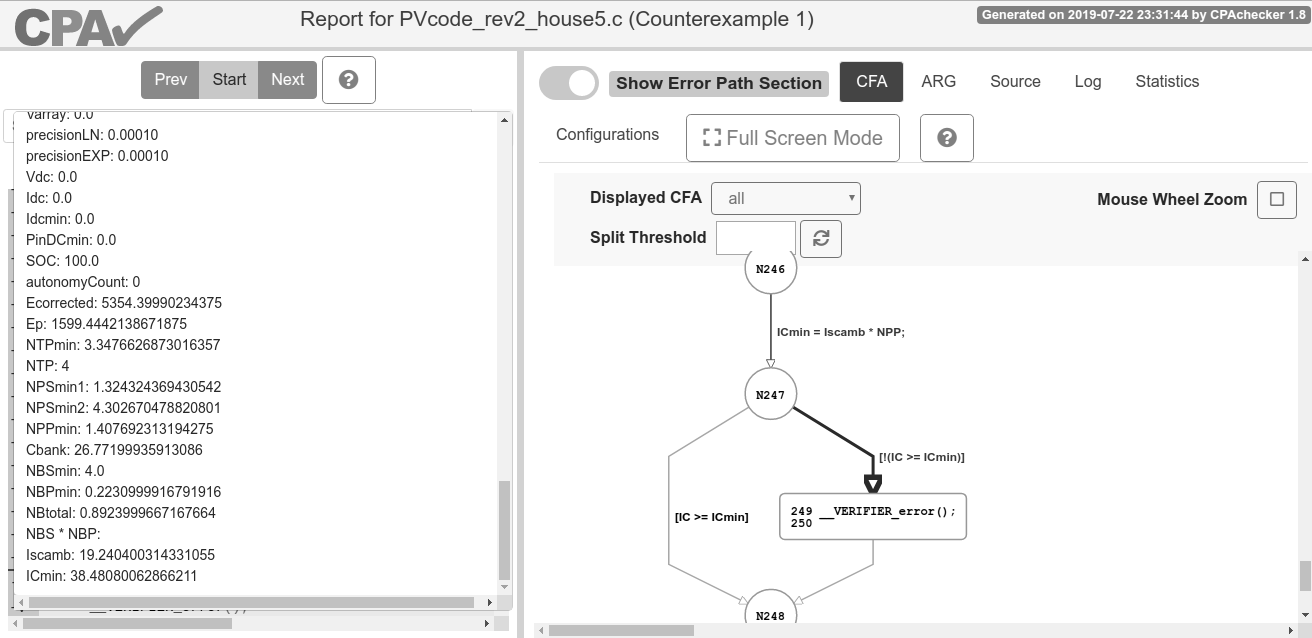
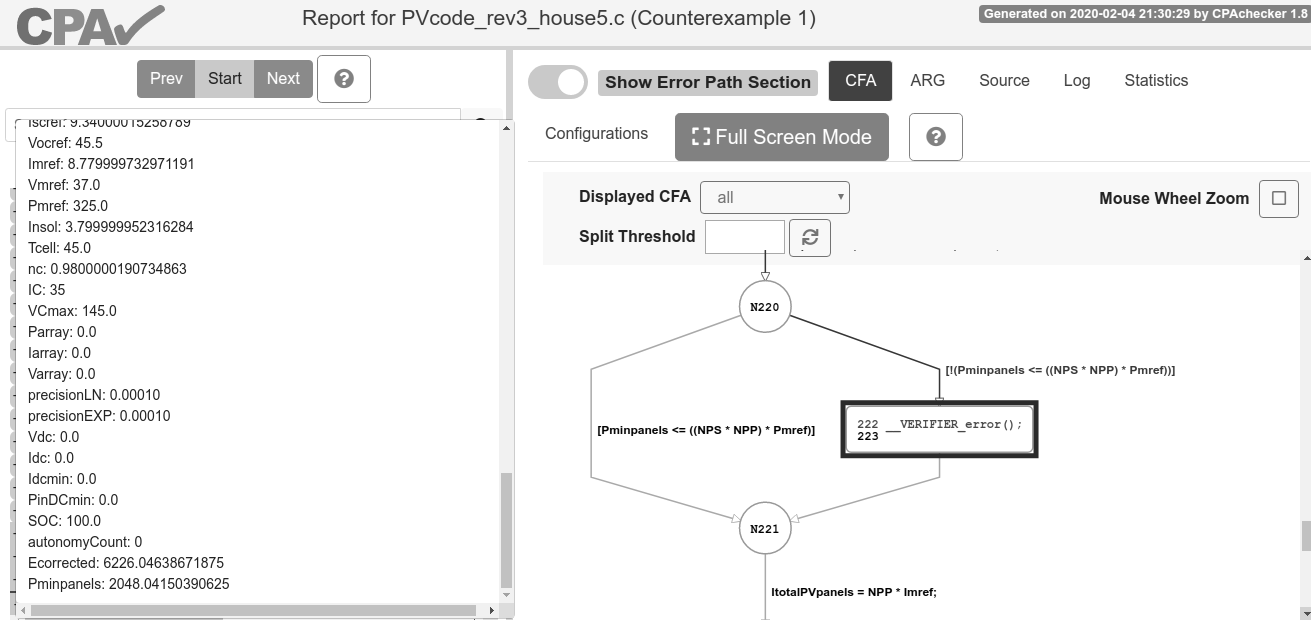
thesis update

diff --git a/Tex/Old text/chapters/chapterverification.tex b/Tex/Old text/chapters/chapterverification.tex
@@ -231,7 +231,7 @@ Inverter & \multicolumn{4}{c}{700 W, surge: 1,600 W} & 1,200 W, surge: 1,600 W\\
 \hline
 Load power peak (W)& 342  & 253  & 263 & 322 & 814 \\
 \hline
-Load Power surge (W)& 342 & 722 & 732 & 896 & 980\\
+Load power surge (W)& 342 & 722 & 732 & 896 & 980\\
 \hline
 Load curve (W) & \multicolumn{5}{l}{\makecell{House 1: 118-118-118-46-46-46-95-95-170-170-296-242-242-95-95-95-95-95-342-288-288-288-288-118\\House 2: 136-136-136-136-136-136-67-67-184-184-184-184-184-67-67-67-67-67-253-253-253-253-253-136\\House 3: 113-113-113-113-113-113-67-67-217-97-97-97-97-97-97-97-97-97-263-113-113-113-113-113\\House 4: 207-207-207-135-135-135-66-66-161-161-233-253-248-66-66-66-66-66-302-317-322-302-302-207\\House 5: 45-16-16-16-16-16-0-0-0-72-72-222-150-150-0-0-72-72-814-814-814-742-742-16}}\\
 \hline
@@ -285,7 +285,7 @@ This Section presents the results, with commented outputs produced by every tool
 %\item[RQ2] \textbf{(performance)} How does our approach compare against other existing tools?
 %
 Table~\ref{cases} summarizes the results. The times reported in Table~\ref{cases} answer EQ2. 
-Note that an UNKNOWN result from the proposed verification engines does not mean that a failure was found nor that the verification was successful: it indicates that the verification engine led to an \textit{out of memory} or a \textit{time out} situation.
+Note that an UNKNOWN result from the proposed verification engines does not mean that a failure was found nor that the verification was successful: it indicates that the verification engine led to an \textit{out of memory} situation and the design-state explosion was a issue during the run-time. It worth to mention that none of the verifiers and solvers reached the \textit{time out} limit during the experimental evaluation.
 
 %HOMER Pro result: the $1,200$W was the only one that was proved to not meet the requirement of battery autonomy; all the 700W systems had no indication of flaws during simulation. The simulation took less than five seconds to be performed on each case study.
 %
@@ -313,6 +313,7 @@ House 5 &  \makecell{Out of memory \\(UNKNOWN)\\$\geq$ 64 GB} & \makecell{$\leq$
 \hline
 \hline
 \end{tabular}
+\\Caption: (SAT): wrong sizing of PV panels (minimum total installed power not satisfied).
 \end{scriptsize}
 \end{table}
 
@@ -323,90 +324,56 @@ The description of the experimental results have been broken down into three par
 
 Two alternatives were tested with ESBMC: one with Boolector and the another with Z3. The 'incremental SMT' option, which uses less memory, can be performed with Z3 only since ESBMC does not support the 'incremental' mode with the Boolector solver yet. 
 
-Using ESBMC with Boolector led to an out of memory situation in all the case studies. This result was obtained in less than six minutes of execution, i.e. the $64$ GB of RAM were consumed by the verification engine and the processes were killed, thus leading to an UNKNOWN result returned by ESBMC as shown in the first column of Table~\ref{cases}. 
+Using ESBMC with Boolector led to an 'out of memory' situation in all the case studies. This result was obtained in less than six minutes of execution, i.e. the $64$ GB of RAM were consumed by the verification engine and the processes were killed, thus leading to an UNKNOWN result returned by ESBMC as shown in the first column of Table~\ref{cases}. 
 
-However, running the same version of ESBMC, using 'incremental SMT' solving with Z3, the experimentation results returned were conclusive (SAT or UNSAT) in all the case studies. 
+However, running the same version of ESBMC, using 'incremental SMT' solving with Z3, the experimentation results returned were conclusive (SAT) in all the case studies. Moreover, the flaw identified was the same for all cases: the sized total PV panels power was not enough to meet the design requirements of the system (energy and power load demand). Put it simple, the designed PV systems will fail when deployed at the field. Based on the fact that the tool stops when the first flaw is identified, the rest of the validation procedure was not even reached. Worth to mention that if we remove the PV panels validation from the tool, the next flaw identified during experimentation was the battery array sizing (not enough to meet the design requirements as well).
 
-In the houses that use a $975$ W PV system (house $1$, house $2$, house $3$, and house $4$), ESBMC could not reach an error in any of the four houses and the execution time took from $04$ m $27$ s to $05$ m $08$ s. Fig.~\ref{fig:esbmcverifhouse1} shows the output report of the tool for house $1$, with the absence of fail at the end of the analysis. The file produced by ESBMC is $160$ lines long and $12.4$ kB in size. The author highlighted the result, which shows that no design flaws were found (SAT result or SUCCESS) within the bound $k$ of $100$.
+In the houses that use a $975$ W PV system (house $1$, house $2$, house $3$, and house $4$), ESBMC reached an error in any of the four houses and the execution time took less than $01$ s. Fig.~\ref{fig:esbmcverifhouse1} shows the output report of the tool for house $1$, with the FAIL identified. The author highlighted the result, which shows that the design flaw was found (SAT result or SUCCESS) within the bound $k$ of $100$, when a expected PV panels total power of $1,636.76$ W is expected and the sized system has only $975$ W. This flaw is related to Eq.~\eqref{eq:Pminpanel}.
 
 \begin{figure}[h]
-\includegraphics[width=0.65\textwidth]{esbmcverifh1.png}
+\fbox{\includegraphics[width=1.0\textwidth]{esbmcverifh1.png}}
 \centering
-\caption{Report generated by ESBMC (with Z3 solver) after validation of House 1.}
+\caption{Report generated by ESBMC (Z3 solver) after validation of House 1.}
 \label{fig:esbmcverifhouse1}
 \end{figure}
 
-However the $1,200$ W PV system (house $5$) failed (SAT) in line $337$ of the code, thereby indicating that the system is \textit{incorrectly} sized; in particular, the counterexample provided by the verification engine indicated that the nominal current from the charge controller is less than the minimum current required by the PV system, indicating that the equipment chosen is not suited to meet the design requirements.
-
-Fig.~\ref{fig:esbmcverifhouse5} shows the report generated by the tool, with red highlights for the result, showing the incompatibility of the sized charge controller and the minimum necessary. The report generated by ESBMC was a text file of $14.1$ kB in size, $353$ lines in length. This verification took less than $1$ s to perform, as indicated in the last line of Table~\ref{cases}, faster than the previous analysis because ESBMC stops during the sizing check, line $3$ of Algorithm~\ref{alg:verification-algorithm}, and does not perform the rest of the verification code.
+Related to the $1,300$ W PV system (house $5$), the same fail occurred (SAT), thereby indicating that the system is \textit{incorrectly} sized. Fig.~\ref{fig:esbmcverifhouse5} shows the report generated by the tool, with highlights for the result, showing the incompatibility of the sized PV panels array of $1,300$ W and the minimum necessary of $2,048.05$W. This verification took less than $1$ s to perform, as indicated in the last line of Table~\ref{cases}.
 
 \begin{figure}[h]
-\includegraphics[width=0.5\textwidth]{esbmcverifh5.png}
+\fbox{\includegraphics[width=1.0\textwidth]{esbmcverifh5.png}}
 \centering
-\caption{Report generated by ESBMC (with Z3 solver) after validation of House 5.}
+\caption{Report generated by ESBMC (Z3 solver) after validation of House 5.}
 \label{fig:esbmcverifhouse5}
 \end{figure}
 
-%At the terminal, the command used to perform the verification is:
-%\$ esbmc filename.c -\phantom{}-no-bounds-check -\phantom{}-no-pointer-check -\phantom{}-no-div-by-zero-check -\phantom{}-unwind 300 -\phantom{}-smt-during-symex -\phantom{}-smt-symex-guard --z3
-%
-%Where:
-%
-%\begin{itemize}
-%\item The first three parameters, after the filename, are related to options that are usual to find bug in software, %for example, like bound check to arrays, pointer check, and division by zero, 
-%but unnecessary to check at this kind of problem (if not removed, there is lost of performance during the automated verification);
-%\item The parameter $unmind$ tells to ESBMC the limit to unroll the loops. This number was optimized (empirically) in order to reduce the running time and avoid to unwind unnecessarily the loops;
-%\item The two parameters with $symex$ tell to ESBMC to perform an incremental SMT solving. There are other options, but this parameter is necessary because the complexity of the algorithms. The incremental SMT solving uses few RAM memory, compared with other SMT solving. 
-%During empirical tests of the algorithms, the incremental solving was the only one who do not demanded 100\% the RAM memory. The use of swap-memory, i.e., the use of hard disk, reduces the performance and must be avoided;
-%\item And the last parameter says to the tool that the Z3 SMT solver will be used.
-%\end{itemize}
-%
 
 \subsection{CBMC}
 
-Similar results were obtained with the CBMC tool, but with slower times than with ESBMC. The experimentation returned SAT or UNSAT for all the case studies, i.e. it was conclusive for all houses. 
-
-In the $975$ W PV systems (house $1$, house $2$, house $3$, and house $4$), the tool could not reach an error in any of the four houses in an execution time of $18$ m $36$ s to $19$ m $02$ s. 
-
-Fig. \ref{fig:cbmcverifhouse1} shows part of the report produced by CBMC when validating house 1. This file contains $270,512$ lines and is $39$ MB in size. The author highlighted the result, which shows that no design flaws were found within the bound $k$ of $100$.
-
-\begin{figure}[h]
-\includegraphics[width=0.8\textwidth]{cbmcverifh1.png}
-\centering
-\caption{Report generated by CBMC after validation of House 1.}
-\label{fig:cbmcverifhouse1}
-\end{figure}
-
-However, the $1,200$ W PV system (house $5$) failed (SAT) in line $337$ of the code; with the same counterexample presented by ESBMC. This verification also took less than $1$ s to perform. Fig.~\ref{fig:cbmcverifhouse5} shows the (edited) report produced, with highlights on the flaw found: the minimum controller current needed for the PV systems is not compatible with the chosen controller of the sized system. The report file generated contains $217$ lines and was $13$ kB in size.
-
-\begin{figure}[h]
-\includegraphics[width=0.7\textwidth]{cbmcverifh5.png}
-\centering
-\caption{Report generated by CBMC after validation of House 5.}
-\label{fig:cbmcverifhouse5}
-\end{figure}
+CBMC was unable to produce a SAT or UNSAT result. In less of the 25 minutes of code execution at the setup configuration, the verifier engine consumed all the available RAM memory and produced an UNKNOWN result, i.e the result was inconclusive for all houses. 
 
 
 \subsection{CPAchecker}
 %\label{sec:CPAresult1}
 
-Finally, the CPAchecker tool presented some different results. Even using two different configuration possibilities, as described in Section~\ref{sec:setup}, the verification engine presented an UNKNOWN result for all the $975$ W systems (house $1$, house $2$, house $3$, and house $4$). 
+Finally, the CPAchecker tool presented some similar qualitative results but with different performance when compared with ESBMC (with Z3 solver). The verification engine presented an SAT result (a FAIL) for all the $975$ W systems (house $1$, house $2$, house $3$, and house $4$) and to $1,300$ W system.
 
-This is because the \textit{time out} limit was reached, i.e. after $4$ hours of execution the tool was unable to decide if the verification was SAT or UNSAT. This is shown in Fig.~\ref{fig:cpavalidh1} which reproduces one of the text reports issued by CPAchecker. Unlike ESBMC and CBMC, CPAchecker produces many different reports, notably for log, statistical, and counterexample files (which are in graphic, not text format).
+Once again the problem of the minimum PV panels sizing expected was indicates as a flaw. The time to result was obtained in less than 5 seconds, around 4 seconds slower than ESBMC (with Z3); and the consumed memory by the CPAchecker was $3.86$ time bigger than ESBMC (with Z3).
+
+Figure~\ref{fig:cpavalidh1} reproduces one of the text reports issued by CPAchecker. Unlike ESBMC and CBMC, CPAchecker produces many different reports, notably for log, statistical, and counterexample files. There is a HTML version of the counterexample which produces graphic output, not only text format.
 
 \begin{figure}[h]
-\includegraphics[width=0.8\textwidth]{CPA_verif_h1.png}
+\fbox{\includegraphics[width=1.0\textwidth]{CPA_verif_h1.png}}
 \centering
-\caption{CPAchecker time out result for house 1 validation (file CPALog.txt).}
+\caption{CPAchecker text result for house 1 validation (file CPALog.txt).}
 \label{fig:cpavalidh1}
 \end{figure}
 
-However, when validating the $1,200$ W PV system (house $5$), the tool presented the same SAT produced by the other engines, but with an execution time of $6$ seconds. Fig.~\ref{fig:cpavalidh5} shows the result, with highlights on the line that causes the fail ($IC_{min}$) and part of the CFA (control-flow automata, represented as a control-flow graph) diagram pointing to this fail.
+Figure~\ref{fig:cpavalidh5} shows the result for the $1,300$ W house, with highlights on the line that causes the fail and part of the CFA (control-flow automata, represented as a control-flow graph) diagram pointing to this fail.
 
 \begin{figure}[h]
-\includegraphics[width=1.0\textwidth]{CPA_verif_h5.png}
+\fbox{\includegraphics[width=1.0\textwidth]{CPA_verif_h5.png}}
 \centering
-\caption{CPAchecker time out result for house 5 validation (file Counterexample.html).}
+\caption{CPAchecker graphic result for house 5 validation (file Counterexample.html).}
 \label{fig:cpavalidh5}
 \end{figure}
 
@@ -440,18 +407,11 @@ Moreover, in order to evaluate the problem associated with the lack of a viable 
 \label{fig:homersimuh2yes}
 \end{figure}
 
-The case study that was not possible to simulate was the $1,200$ W (house $5$). The reason is that HOMER Pro does not allow battery autonomy setup (because it always sizes and optimizes the electrical system in order to meet the load requirements for an entire year of simulation); therefore, it was not possible to obtain any indication about the failures of this specific PV system with simulation (EQ2).  
-
-%
-%Note that a PV design always uses daily average values of sun hours to each site, with impact in the PV components. Those hours are based on historical data and, in field, it is not unusual to find days where that number of hours was not reached due to weather conditions. The season has impact since the case studies are from the rain forest, where clouds are always present. As a result, the identified flaws in houses 1, 2, 3, and 4, are justified once again.
-%
-%We have evaluated five case studies in total using the HOMER Pro tool and our automated verification tool. Related to the HOMER Pro, the simulation, based on NASA data from the deployed systems (temperature and solar irradiance), shows that the restrictions were met by four 700 W PV systems (house 1, 2, 3 and 4), without any indication of sizing error or even performance. The case study that was unsuccessful during simulation was the 1,200 W (house 5); however, without any indication about the failures of this PV system. All the simulations took less than 5 seconds (each) to be performed.
-%
-%However, related to the results of the automated verification: (a) the 1,200 W PV system (house 5) failed during the sizing check. The number of panels was \textit{incorrect}; in particular, the counterexample provided by our verification method indicated 3 panels in parallel and the sized project has 2 in series and 2 in parallel. That verification took 63.3 hours to be performed. Surveying the owner of the 1,200 W system it was identified that, in fact, the system mostly of the time do not met the battery autonomy (mainly when all the loads are turned on). That behavior is expected because the system was purchased as an off-the-shelf solution and not as a specific design for the electrical charges of the house; (b) Related to the four 700 W PV systems, just one verification finished its analysis (house 1) considering the time-out of 432 h of computing. The sizing check was successful during automated verification, but there was found flaw related with the battery autonomy, when SOC reached levels below of 75\%. The automated verification identified the flaw right after the first night-discharge cycle, before the solar system start to recharge the batteries. The proposed tool took 409.3 hours to find this error at house 1. This possible flaw was confirmed with the dweller that uses the system: at least once or twice a mouth is usual the system to turn off, normally during raining days or with more clouds in the sky, and after the sun rises the system returns to normal operation. Related to houses 2, 3 and 4, it was considered that the automated verification had a time-out condition, with no conclusive results.
+The case study that was not possible to simulate was the $1,300$ W (house $5$). The reason is that HOMER Pro does not allow battery autonomy setup (because it always sizes and optimizes the electrical system in order to meet the load requirements for an entire year of simulation); therefore, it was not possible to obtain any indication about the failures of this specific PV system with simulation (EQ2).  
 
 \subsection{Comparing Automated Verification and Simulation Results with Real PV Systems}
 
-Results diverged for houses $1$, $2$, $3$ and $4$ with respect to the proposed approach: the automated evaluation shows there is no project flaws, but simulation demanded improvement of battery capacity (adding one more string of batteries to the system). 
+Results do not diverged for houses $1$, $2$, $3$, $4$, and $5$ with respect to the proposed approach: the automated evaluation shows there is project flaws, from the PV panels to the battery arrays sizing. Simulation demanded improvement of battery capacity (adding one more string of batteries to the system) and to the PV panels array (when the HOMER Pro tool was doing optimization of the original sized solution). 
 
 In order to evaluate which validation is correct, it was necessary to consult the access interviews conducted with the residents of the deployed systems. From July $2018$ to March $2019$, surveys were applied to the residents on a monthly basis and data was collected from a local monitoring system: energy interruptions of the PV systems were not reported every month. 
 
@@ -459,7 +419,7 @@ However, even when only one interruption is reported in a month, this represents
 
 All tools indicated flaws in house $5$ (automated verification or simulation); however, only the automated verification approaches indicated which design error was responsible for the flaw (charge controller specification), further answering EQ2.
 
-In order to validate the possible flaw identified by the automated verification in house $5$, the owner of the $1,200$ W system was interviewed. From this it became clear that, in fact, the system does not meet the battery autonomy when all loads are turned on, and this was double-checked against the monitoring system of the charge controller, which showed that the maximum power or surge power was not exceeded, thus affirming EQ1; this behavior is to be expected since the system was purchased as an off-the-shelf solution and not as a customized design for the house's electrical charges. 
+In order to validate the possible flaw identified by the automated verification in house $5$, the owner of the $1,300$ W system was interviewed. From this it became clear that, in fact, the system does not meet the battery autonomy when all loads are turned on, and this was double-checked against the monitoring system of the charge controller, which showed that the maximum power or surge power was not exceeded, thus affirming EQ1; this behavior is to be expected since the system was purchased as an off-the-shelf solution and not as a customized design for the house's electrical charges. 
 
 %\begin{figure}[h]
 %\includegraphics[width=0.65\textwidth]{loadcurve.png}
@@ -482,7 +442,7 @@ The adoption of more complex models, or even an evaluation in a PV laboratory to
 
 \textit{Time step:} The run-time complexity of the proposed method is an issue; the time step of one hour could be further reduced to approximate the algorithm to the real-world scenario.
 
-\textit{Case studies:} The case studies were conducted in only  one municipality. A more complete evaluation can be done with more case studies.
+\textit{Case studies:} The case studies were conducted in only one municipality. A more complete evaluation can be done with more case studies.
 
 \textit{Simulation Tool:} Only HOMER Pro was used. The inclusion of other specialized simulation tools or even a general simulation tool that uses the same mathematical model adopted by the automated verification could change the comparison.
 
@@ -494,8 +454,8 @@ This Chapter showed in details how the state-of-the-art computer science method 
 
 Detailed diagrams, flowcharts and algorithm with pseudo-code were presented in support of the proposed work and to aid the understanding. Additionally, the assumptions adopted in relation to the automated verification and simulation software were listed.
 
-Furthermore, in this Chapter verifiers with the proposed automated verification using model checking were compared, which demonstrated that 'incremental' ESBMC had the best overall performance. CBMC presented the same results, but with a worse time to result, and CPAchecker was not conclusive (house $1$, house $2$, house $3$, and house $4$) because the \textit{time out} was not enough to obtain a result.
+Furthermore, in this Chapter verifiers with the proposed automated verification using model checking were compared, which demonstrated that 'incremental' ESBMC had the best overall performance. CBMC was not conclusive, presented out of memory issues in all cases. CPAchecker had similar quality results than ESBMC, but with a slower performance for all cases.
 
-A comparison with a specialized simulation tool was also performed, although some of the tool's limitations, mainly related to not allowing battery autonomy setup or oversizing the battery bank by HOMER Pro, restricted the comparison between automated verification tools and simulation tools.
+A comparison with a specialized simulation tool was also performed, although some of the tool's limitations, mainly related to not allowing battery autonomy setup.  The need of better PV panels and/or battery sizing by HOMER Pro and the verifier engines showed the flaws identified by the tools.
 
 Based on the fact that all case studies were deployed in the field, with regular visits to conduct interviews with the residents, and with monitoring systems in some of the houses (house $1$, house $2$, house $3$, and house $4$), it was possible to compare the computational validation (by simulation or automated verification) with the real world employment of stand-alone solar PV systems. The final conclusion was that the proposed tool is sound and has an acceptable performance. 
